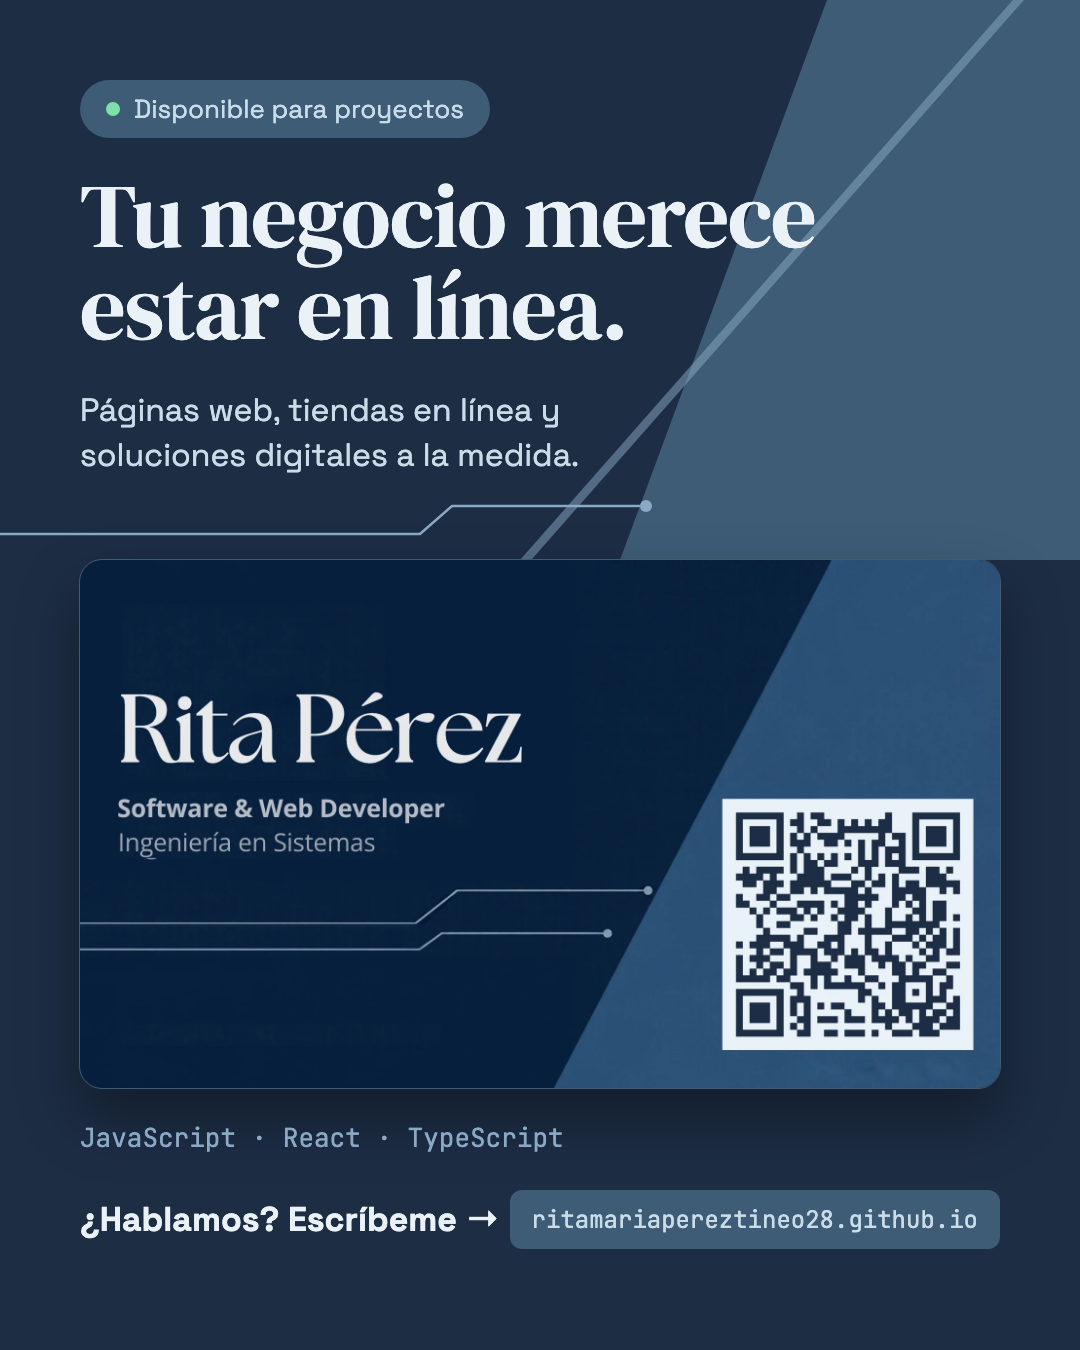
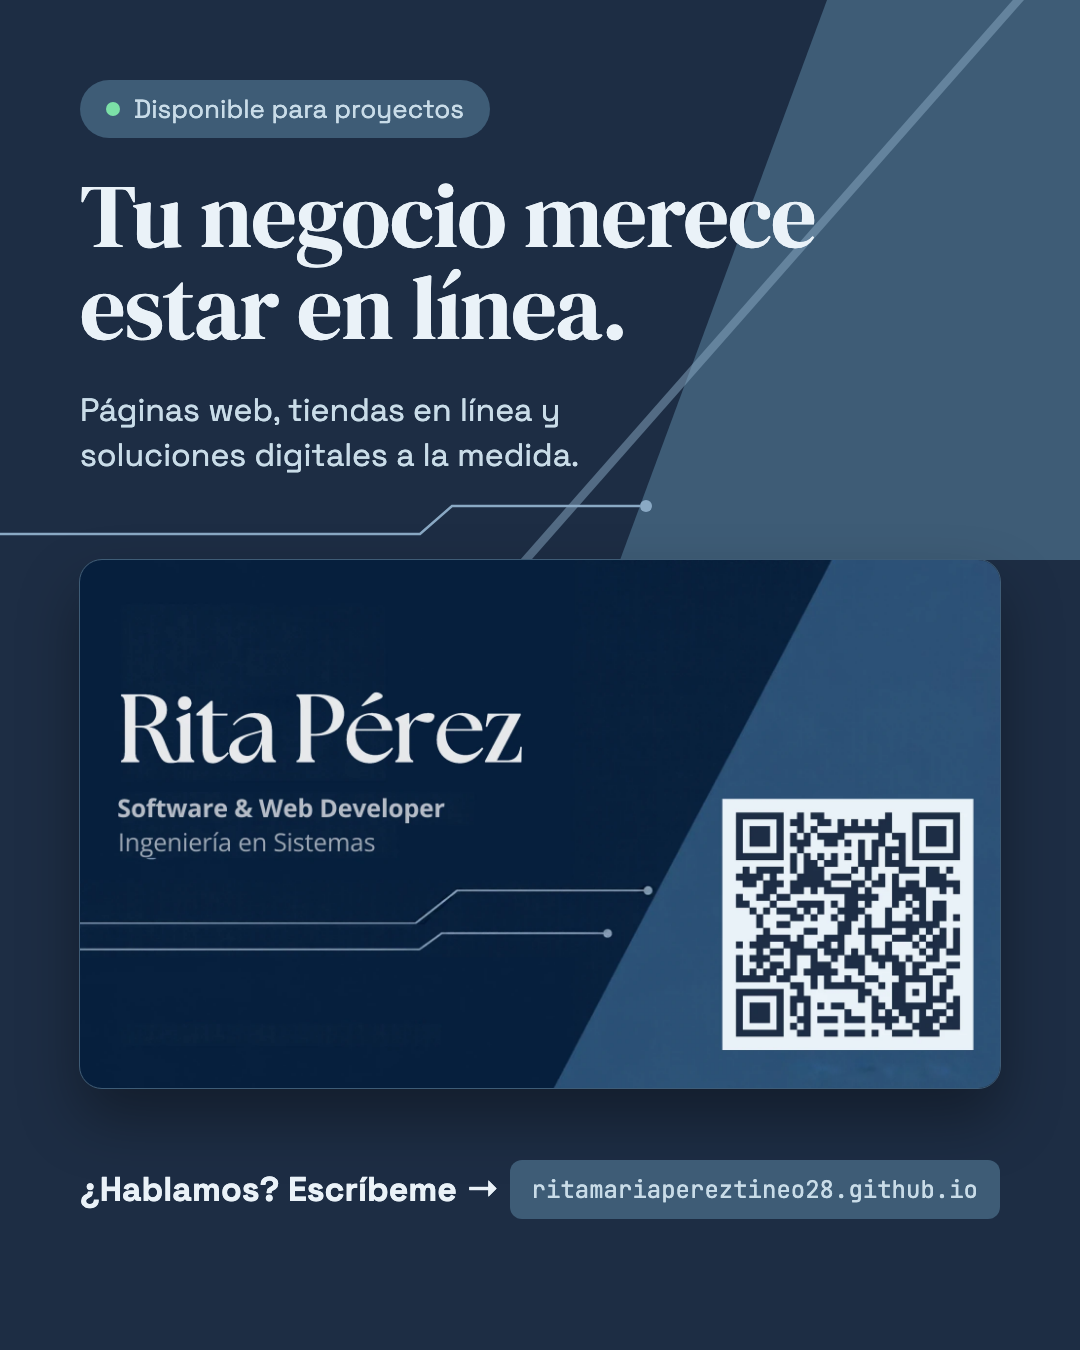
Quitar el stack tecnológico de la tarjeta digital y del post

Changed region(s): [[0.0611, 0.84, 0.9472, 0.9333]]

diff --git a/index.html b/index.html
@@ -164,7 +164,6 @@ const DATOS = {
   rol:       "Software & Web Developer",
   formacion: "Ingeniería en Sistemas",
   frase:     "Turning ideas into digital experiences.",
-  stack:     ["Shopify", "JS", "React", "TS"],
   pie:       "</> Rita Pérez · 2026",
   enlaces: [
     { texto: "LinkedIn",     url: "https://www.linkedin.com/in/rita-perez-6147251a0/" },
@@ -196,7 +195,7 @@ DATOS.enlaces.forEach((e, i) => {
 /* Efecto máquina de escribir en el bloque de código */
 const parts = [
   ["k", "const "], ["s", "Rita"], ["", " = {\n  role: "], ["s", `"${DATOS.rol.replace("Software & ", "")}"`],
-  ["", ",\n  stack: ["], ["s", DATOS.stack.map(t => `"${t}"`).join(", ")], ["", "]\n};"]
+  ["", ",\n  focus: "], ["s", '"Webs y apps a la medida"'], ["", "\n};"]
 ];
 const typed = $("typed");
 let p = 0, c = 0;
